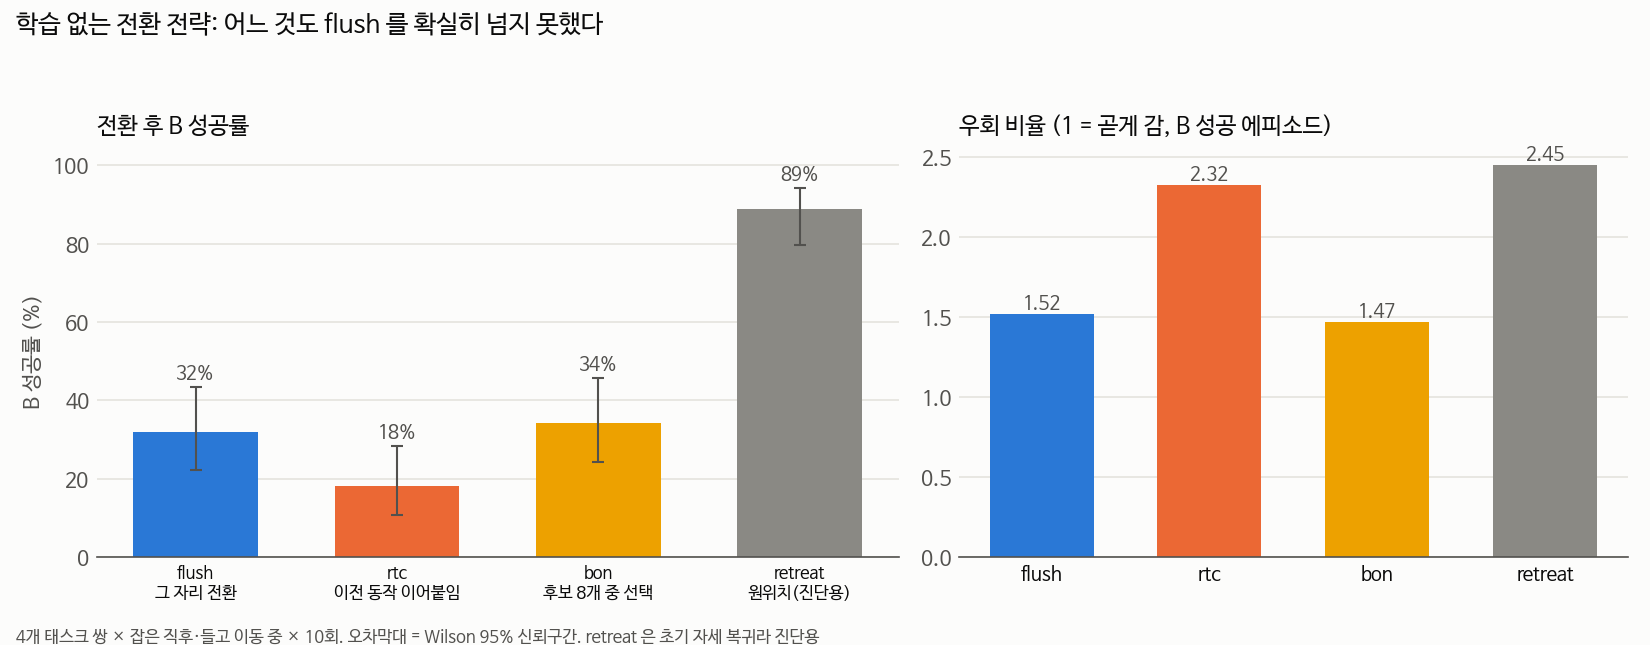
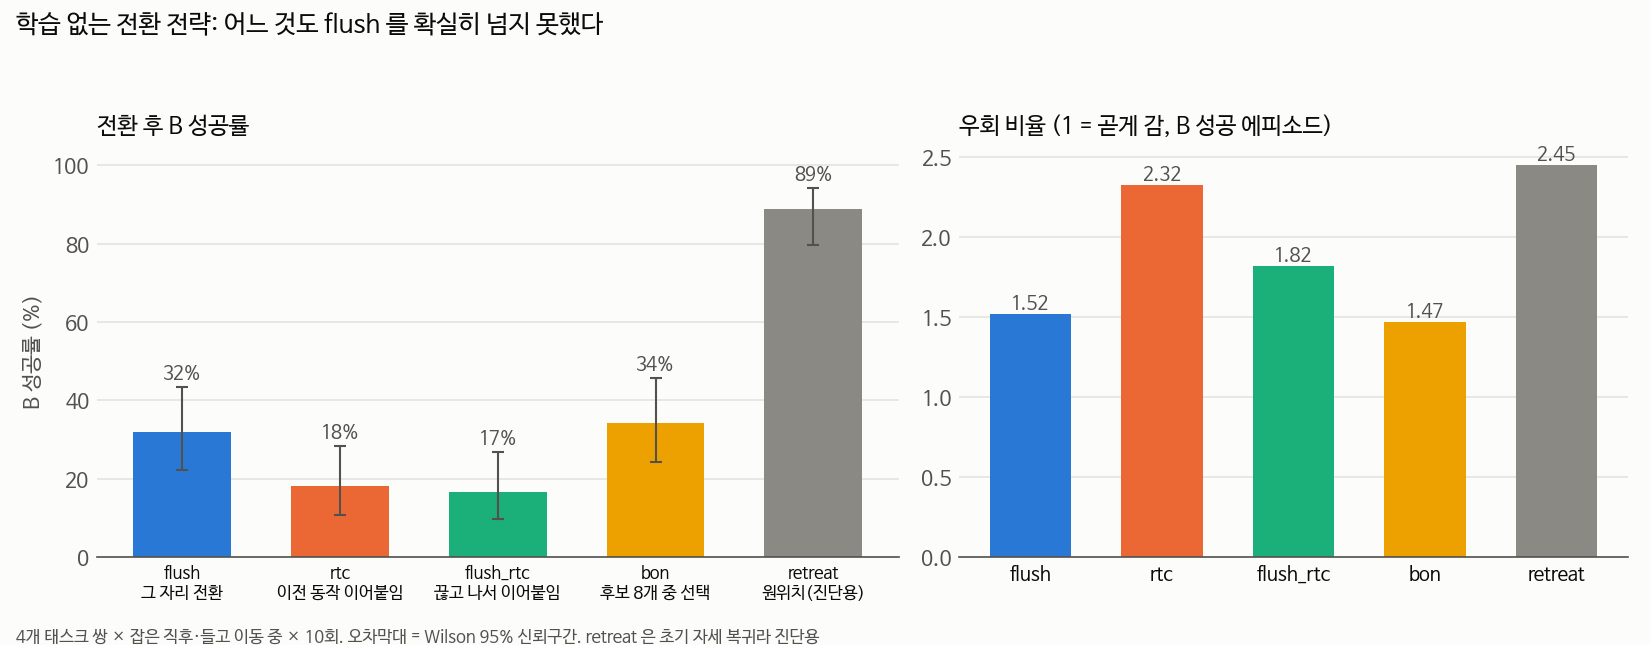
flush_rtc 결과: 끊고 나서 이어붙여도 17% (flush 보다 나쁨)
- 지시 무시는 0으로 없앴지만 B 성공 17%, 짝 비교 8:19 p≈0.05
- B 안에서도 RTC 가 방향 교정을 방해하는 것으로 추정 → 전환 없는 비교 실험 진행 중
- 전략 집계 오류 수정 (rtc 패턴이 flush_rtc 까지 잡던 문제), 그래프 재생성

diff --git a/04_실습/05_libero/training_free/switch_experiment.py b/04_실습/05_libero/training_free/switch_experiment.py
@@ -22,6 +22,7 @@ LIBERO-Goal + SmolVLA: 태스크 도중 지시 전환 실험 (연구주제.md / 
   ret_rot  내려놓기 + 손목 회전만 초기값으로 복귀 (위치는 그대로) ← retreat ablation
   rtc      Real-Time Chunking (Black et al., NeurIPS 2025). 새 chunk 를 만들 때마다 이전 chunk 의 남은 동작을
            guidance 로 주어 이어지게 생성(inpainting). 전환 순간에도 같은 방식 → 학습 없이 매끄러운 전환
+  rtc_all  처음부터 모든 chunk 경계에 RTC (전환 없는 평범한 수행에서 RTC 자체 영향 확인용, --switch-at step:9999 와 함께)
   flush_rtc 전환 순간엔 이전 chunk 를 버리고(flush), 새 지시의 첫 chunk 이후부터 RTC 로 이어붙임.
            rtc 가 전환 때 A 방향으로 끌려가는 문제(2026-09-17)를 피하면서 B 안에서는 매끄럽게
   bon      Best-of-N (Q-Planning, arXiv 2608.21204 의 축소판). 전환 이후 매 추론마다 후보 chunk N개를 뽑고,
@@ -87,7 +88,7 @@ def build_parser():
     p.add_argument("--task-b", type=int, default=None)
     p.add_argument("--switch-at", default="grasp:3", help="step:N | grasp:K")
     p.add_argument("--strategy",
-                   choices=["none", "flush", "keep", "blend", "retreat", "release", "ret_pos", "ret_rot", "rtc", "flush_rtc", "bon", "vbon"],
+                   choices=["none", "flush", "keep", "blend", "retreat", "release", "ret_pos", "ret_rot", "rtc", "flush_rtc", "rtc_all", "bon", "vbon"],
                    default="flush")
     p.add_argument("--blend-steps", type=int, default=10)
     p.add_argument("--rtc-horizon", type=int, default=10, help="rtc: 이전 chunk 를 따르도록 유도할 앞부분 길이")
@@ -176,7 +177,7 @@ class Episode:
     # ---------- 정책 ----------
     def infer_chunk(self, instruction) -> np.ndarray:
         r = self.r
-        use_rtc = self.a.strategy in ("rtc", "flush_rtc") and self.rtc_active  # 전환 이후에만
+        use_rtc = (self.a.strategy in ("rtc", "flush_rtc") and self.rtc_active) or self.a.strategy == "rtc_all"
         # RTC 는 guidance 계산에 autograd 를 쓰므로 inference_mode 대신 no_grad
         ctx = torch.no_grad() if use_rtc else torch.inference_mode()
         with ctx:
@@ -402,7 +403,7 @@ class Runner:
         self.device = "cuda" if torch.cuda.is_available() else "cpu"
         self.policy = SmolVLAPolicy.from_pretrained(args.policy)
         self.policy.config.device = self.device
-        if getattr(args, "strategy", None) in ("rtc", "flush_rtc"):
+        if getattr(args, "strategy", None) in ("rtc", "flush_rtc", "rtc_all"):
             from lerobot.policies.rtc.configuration_rtc import RTCConfig
             self.policy.config.rtc_config = RTCConfig(enabled=True, execution_horizon=args.rtc_horizon,
                                                       max_guidance_weight=args.rtc_guidance)

diff --git a/04_실습/05_libero/training_free/naturalness.py b/04_실습/05_libero/training_free/naturalness.py
@@ -98,7 +98,7 @@ def main():
     rows.update(lora)
     if Path("outputs/switch_lora_v2").exists():
         rows.update(collect("outputs/switch_lora_v2", lambda a: "LoRA 2차 flush"))
-    order = ["flush", "keep", "blend", "rtc", "bon", "release", "ret_rot", "ret_pos", "retreat", "LoRA 1차 flush", "LoRA 2차 flush"]
+    order = ["flush", "keep", "blend", "rtc", "flush_rtc", "bon", "release", "ret_rot", "ret_pos", "retreat", "LoRA 1차 flush", "LoRA 2차 flush"]
     md, table = summarize(rows, order)
     Path("outputs/report").mkdir(parents=True, exist_ok=True)
     Path("outputs/report/naturalness.md").write_text("(잡은 직후 + 들고 이동 중 전환, B 성공 에피소드만, 중앙값)\n\n" + md + "\n")

diff --git a/04_실습/05_libero/training_free/make_training_free_chart.py b/04_실습/05_libero/training_free/make_training_free_chart.py
@@ -23,8 +23,10 @@ def wilson(k, n, z=1.96):
 rates, los, his, labels, cols, ns = [], [], [], [], [], []
 for s, lab, col in STRATS:
     eps = []
-    for f in glob.glob(f"outputs/switch/A*_B*_grasp*_{s}.json"):
-        eps += [e for e in json.load(open(f))["episodes"] if e.get("switched")]
+    for f in glob.glob("outputs/switch/A*_B*_grasp*.json"):
+        d = json.load(open(f))
+        if d["args"]["strategy"] == s:  # 파일 이름 패턴은 rtc 가 flush_rtc 까지 잡으므로 인자로 거름
+            eps += [e for e in d["episodes"] if e.get("switched")]
     if not eps:
         continue
     k = sum(bool(e.get("b_success")) for e in eps); n = len(eps)

diff --git a/03_일지/README.md b/03_일지/README.md
@@ -20,7 +20,7 @@
 
 | 날짜 | 제목 | 한 줄 요약 | 남은 할 일 |
 |---|---|---|---|
-| [2026-09-17](2026-09-17.md) | retreat ablation + LoRA 1차 학습 (실패 분석) | 초기 위치로 되돌리면 전환이 잘 되지만, 실제 전환에서 팔 위치로는 성공이 안 갈렸다. 학습 없는 전략 rtc(18%)·bon(34%)도 flush(32%)를 못 넘었고, LoRA 1차는 데이터 편향으로 실패했다. | 8개 |
+| [2026-09-17](2026-09-17.md) | retreat ablation + LoRA 1차 학습 (실패 분석) | 초기 위치로 되돌리면 전환이 잘 되지만, 실제 전환에서 팔 위치로는 성공이 안 갈렸다. 학습 없는 전략 rtc(18%)·flush_rtc(17%)·bon(34%)도 flush(32%)를 못 넘었고, LoRA 1차는 데이터 편향으로 실패했다. | 8개 |
 | [2026-09-16](2026-09-16.md) | 자세 민감도 측정 + 선행 연구 확인 | 손목을 30도만 돌려놓고 시작해도 성공률이 0%가 된다. 전환이 실패하는 진짜 이유를 숫자로 확인했고, 같은 주제의 선행 연구(SwitchVLA)를 찾았다. | 5개 |
 | [2026-09-14](2026-09-14.md) | 첫 태스크 전환 실험 (LIBERO-Goal + SmolVLA) | 지시를 도중에 바꾸면 SmolVLA는 알아듣고도 수행을 못 한다. 원인은 chunk 처리 방식이 아니라 **전환 순간의 로봇 자세**. | 5개 |
 
@@ -36,7 +36,7 @@
 
 ## 핵심 수치 모음 (연구)
 
-- **2026-09-17** — B 성공: flush / release / ret_rot / ret_pos / retreat: 32 / 8 / 12 / **64** / **89%** (잡은 직후 + 들고 이동 중, 약 72회씩) · 전환 시 초기 자세로부터 거리: 12.1 / 18.2 / **27.1cm** (접근 중 / 들고 이동 중 / 잡은 직후, 중앙값) · B 성공 flush / rtc / bon: 32 / **18** / 34% (4쌍 × 2시점 × 10회)
+- **2026-09-17** — B 성공: flush / release / ret_rot / ret_pos / retreat: 32 / 8 / 12 / **64** / **89%** (잡은 직후 + 들고 이동 중, 약 72회씩) · 전환 시 초기 자세로부터 거리: 12.1 / 18.2 / **27.1cm** (접근 중 / 들고 이동 중 / 잡은 직후, 중앙값) · B 성공 flush / rtc / flush_rtc / bon: 32 / **18** / **17** / 34% (4쌍 × 2시점 × 10회)
 - **2026-09-16** — 위치 오프셋별 성공률: **87 / 87 / 83 / 63 / 57 / 43%** (0·2·4·6·8·10cm, 태스크 3개 합산 30회씩) · 손목 회전별 성공률: **87 / 70 / 43 / 17%** (0·10·20·30도, 태스크 3개 합산 30회씩) · 30도에서 물체 집는 태스크: **0%** (태스크 7, 1) (각 10회)
 - **2026-09-14** — B 성공률 flush / keep / blend / retreat: 18 / 28 / 18 / **82%** (접근 중 전환, 4쌍 × 10회) · B 성공률 flush / keep / blend / retreat: 25 / 25 / 28 / **92%** (잡은 직후, 36회) · B 성공률 flush / keep / blend / retreat: 39 / 33 / 22 / **86%** (들고 이동 중, 36회)
 

diff --git a/04_실습/05_libero/방법_총정리.md b/04_실습/05_libero/방법_총정리.md
@@ -20,6 +20,7 @@
 | `keep` | 남은 동작 다 쓰고 새 지시 | ✗ | 후보 | - | 비슷 |
 | `blend` | 이전·새 동작 앞부분을 가중평균 | ✗ | 후보 | [RTC](../../02_논문노트/Real-Time-Chunking.md) 의 단순 근사 | 비슷 |
 | **`rtc`** | 새 동작을 **만드는 과정에서** 이전 동작에 맞춤 | ✗ | **후보** | [Real-Time Chunking](../../02_논문노트/Real-Time-Chunking.md) (NeurIPS 2025) | **B 18%** ❌ (A 방향으로 끌려감) |
+| `flush_rtc` | 전환 순간 끊고, 이후 RTC | ✗ | 후보 | [RTC](../../02_논문노트/Real-Time-Chunking.md) 변형 | **B 17%** ❌ (flush 보다 나쁨, p≈0.05) |
 | **`bon`** | 후보 N개 중 **성공 궤적 근처로 가는** 것 선택 (⚠ [가설 검증](hypothesis_check/README.md)상 위치 거리가 성공과 무관해 효과 약할 것으로 예상) | ✗ | **후보** | [Q-Planning](../../02_논문노트/Q-Planning.md) 축소판, [V-GPS](../../02_논문노트/V-GPS.md), [RoboMonkey](../../02_논문노트/RoboMonkey.md) | **B 34%** (flush 와 차이 없음, p≈0.82) |
 | `retreat` | 내려놓고 **초기 자세 복귀** 후 전환 | ✅ | 진단·상한 | [SwitchVLA](../../02_논문노트/SwitchVLA.md) 의 rollback/advance 와 같은 발상 | B 89% |
 | `ret_pos` | 내려놓고 **위치만** 복귀 | ✅ | 진단 | ablation | B 64% |

diff --git a/04_실습/05_libero/training_free/results/naturalness.md b/04_실습/05_libero/training_free/results/naturalness.md
@@ -6,6 +6,7 @@
 | keep | 21 | 70.1 | 1.72 | 7.8 | 1.0 | 1.1 |
 | blend | 18 | 70.9 | 1.66 | 8.2 | 1.0 | 0.2 |
 | rtc | 13 | 84.2 | 2.32 | 9.6 | 2.0 | 1.8 |
+| flush_rtc | 12 | 68.3 | 1.82 | 9.7 | 2.0 | 0.0 |
 | bon | 25 | 62.3 | 1.47 | 8.2 | 2.0 | 0.0 |
 | release | 6 | 76.4 | 1.88 | 11.1 | 4.0 | 0.3 |
 | ret_rot | 9 | 76.2 | 1.99 | 11.9 | 3.0 | 0.2 |
